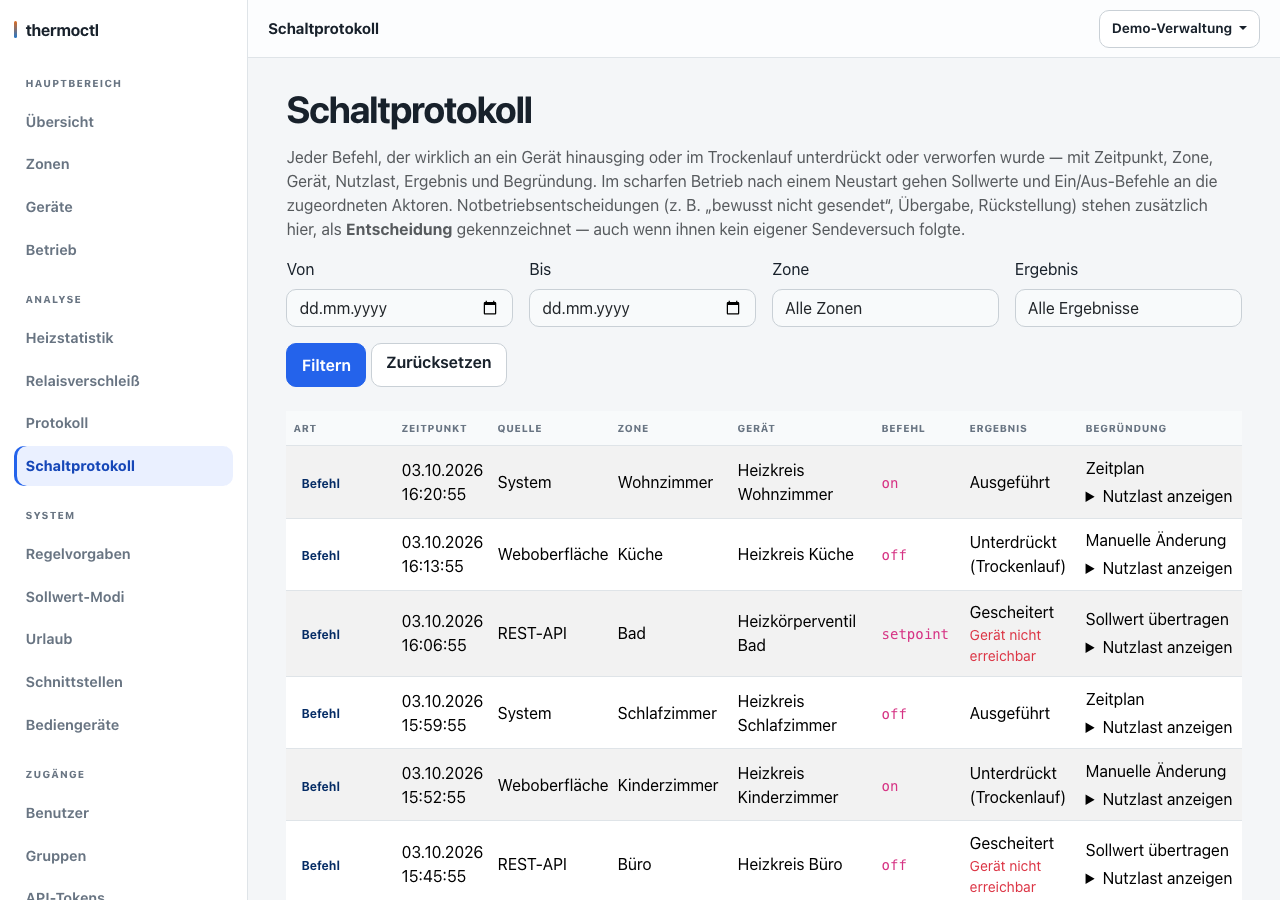
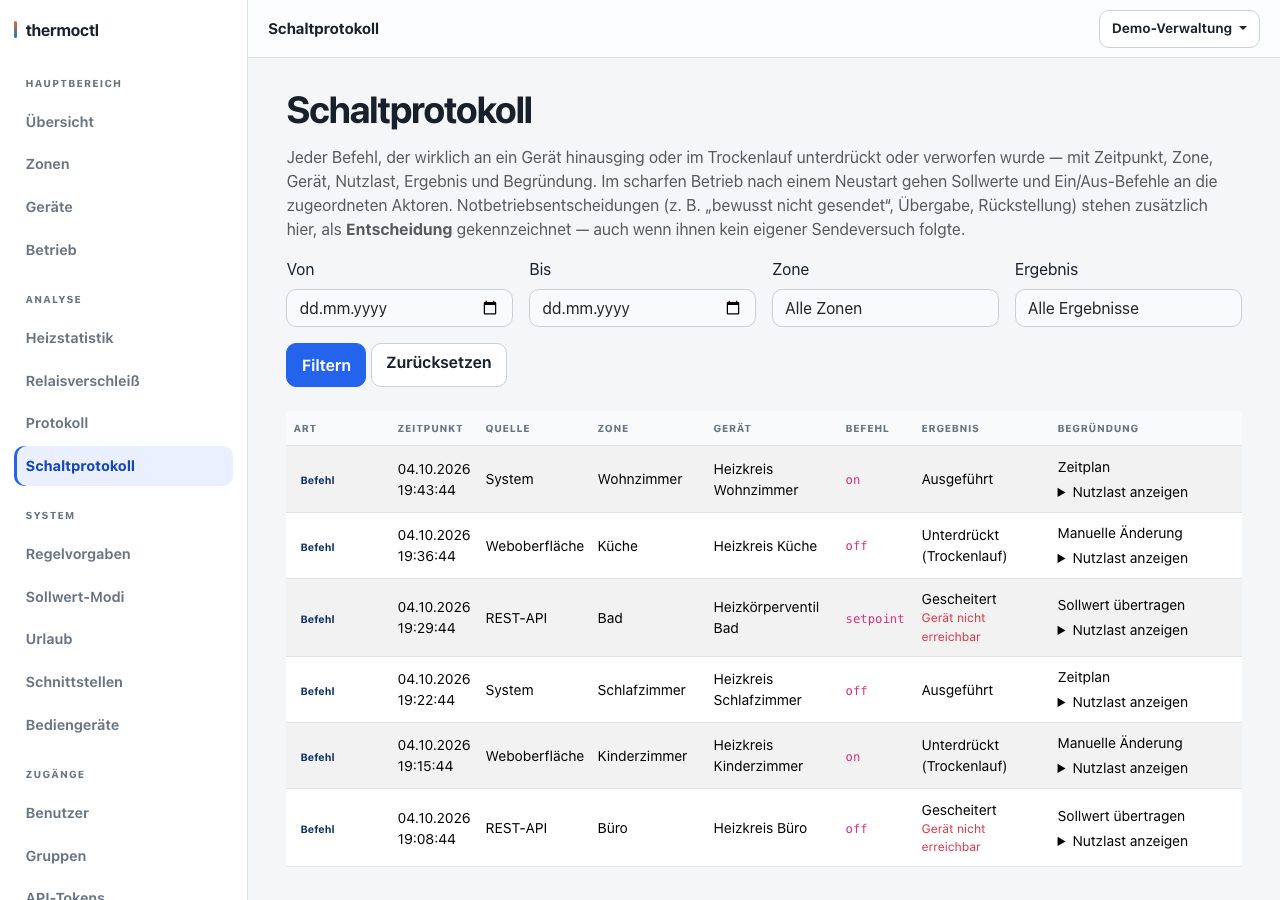
fix: Schaltprotokoll bricht lange Ergebnis- und Begruendungstexte bei 1280 px sauber um

diff --git a/thermoctl/web/static/thermoctl.css b/thermoctl/web/static/thermoctl.css
@@ -938,24 +938,41 @@ body {
  * 7 Ergebnis, 8 Begründung. Bei 1280px bleiben neben Navigation und
  * Seitenpolster nur 955px. Jede feste Breite enthält ihr Zellpolster (2 x
  * 0.45rem); Zeitpunkt, Ergebnis und Begründung dürfen nur an Leerzeichen
- * umbrechen, nie mitten im Wort. Der Rest gehört der Begründung. Unterhalb
+ * umbrechen, nie mitten im Wort. Der Rest (rund 190px) gehört der Begründung. Unterhalb
  * dieses Budgets scrollt nur die Tabelle; mobil gilt die Kartenform. */
 .tc-command-table { table-layout: fixed; }
 .tc-command-table > :not(caption) > * > * { padding: 0.6rem 0.45rem; }
-.tc-command-table th:nth-child(1) { width: 6.75rem; }
-.tc-command-table th:nth-child(2) { width: 6rem; }
-.tc-command-table th:nth-child(3) { width: 7.5rem; }
-.tc-command-table th:nth-child(4) { width: 7.5rem; }
-.tc-command-table th:nth-child(5) { width: 9rem; }
-.tc-command-table th:nth-child(6) { width: 5.5rem; }
-.tc-command-table th:nth-child(7) { width: 7.25rem; }
+.tc-command-table th:nth-child(1) { width: 6.5rem; }
+.tc-command-table th:nth-child(2) { width: 5.5rem; }
+.tc-command-table th:nth-child(3) { width: 7rem; }
+.tc-command-table th:nth-child(4) { width: 7.25rem; }
+.tc-command-table th:nth-child(5) { width: 8.25rem; }
+.tc-command-table th:nth-child(6) { width: 4.75rem; }
+.tc-command-table th:nth-child(7) { width: 8.5rem; }
+
+/* Am Schreibtisch ist die Tabelle dicht: Die Zeilen tragen Notbetriebstexte mit
+ * langen deutschen Zusammensetzungen ("Außentemperaturmessung"), die in
+ * 1rem-Schrift nicht in die Begründungsspalte passen. Mobil bleibt die
+ * Kartenform in Normalgröße. */
+@media (min-width: 768px) {
+    .tc-command-table { font-size: 0.875rem; }
+}
 
 .tc-command-table td:nth-child(1),
 .tc-command-table td:nth-child(2),
-.tc-command-table td:nth-child(3),
+.tc-command-table td:nth-child(3) {
+    overflow-wrap: normal;
+}
+
+/* Ergebnis und Begründung tragen freien Text: Fehlermeldungen, Pfade, lange
+ * deutsche Zusammensetzungen. Umbrochen wird zuerst an Leerzeichen und an den
+ * Trennmarken der Vorlage (<wbr> nach _ / ? & =); erst wenn ein einzelnes Wort
+ * allein nicht in die Spalte passt, darf `break-word` es zerteilen -- statt
+ * dass es in die Nachbarspalte läuft. Anders als `anywhere` ändert es die
+ * Mindestbreite nicht und greift nur in diesem Notfall. */
 .tc-command-table td:nth-child(7),
 .tc-command-table td:nth-child(8) {
-    overflow-wrap: normal;
+    overflow-wrap: break-word;
 }
 
 .tc-command-table td:nth-child(1) .badge {

diff --git a/thermoctl/web/templates/device_commands.html b/thermoctl/web/templates/device_commands.html
@@ -1,6 +1,13 @@
 {% extends "base_admin.html" if not is_htmx else "empty.html" %}
 {% block title %}Schaltprotokoll – thermoctl{% endblock %}
 {% block page_title %}Schaltprotokoll{% endblock %}
+{# Trennstellen für Rohcodes, Pfade und Adressen: <wbr> nach _ / ? & = . erlaubt dem
+   Browser einen Umbruch an diesen Stellen, bevor er überhaupt ein Wort zerreißen
+   müsste. Der Text wird zuerst maskiert; nur die Trennmarke ist Markup. #}
+{% macro breakable(text) -%}
+{%- set wbr = "<wbr>"|safe -%}
+{{- text|e|replace("_", "_"|safe ~ wbr)|replace("/", "/"|safe ~ wbr)|replace("?", "?"|safe ~ wbr)|replace("&amp;"|safe, "&amp;"|safe ~ wbr)|replace("=", "="|safe ~ wbr)|replace(".", "."|safe ~ wbr) -}}
+{%- endmacro %}
 {% block content %}
 <section id="device-command-list">
   <h1 class="mb-3">Schaltprotokoll</h1>
@@ -71,11 +78,11 @@
         <td data-label="Gerät">{{ entry.device_name }}</td>
         <td data-label="Befehl"><code>{{ entry.command }}</code></td>
         <td data-label="Ergebnis">
-          {{ outcome_labels.get(entry.outcome, entry.outcome) }}
-          {% if entry.error %}<div class="text-danger small">{{ entry.error }}</div>{% endif %}
+          {{ breakable(outcome_labels.get(entry.outcome, entry.outcome)) }}
+          {% if entry.error %}<div class="text-danger small">{{ breakable(entry.error) }}</div>{% endif %}
         </td>
         <td data-label="Begründung">
-          {{ entry.reason or "–" }}
+          {{ breakable(entry.reason or "–") }}
           {% if entry.payload %}
           <details class="mt-1"><summary>Nutzlast anzeigen</summary><pre class="mt-2 text-wrap">{{ entry.payload }}</pre></details>
           {% endif %}

diff --git a/browser_tests/test_mobile_word_wrap.py b/browser_tests/test_mobile_word_wrap.py
@@ -135,6 +135,65 @@ def test_no_word_splits_or_horizontal_overflow_at_phone_width(
 
 _DESKTOP_VIEWPORT = {"width": 1280, "height": 900}
 
+# Bewusst lange Protokollinhalte: ein Rohcode als Ergebnis einer Notbetriebs-
+# entscheidung (ohne Anzeigebezeichnung, nur mit Unterstrichen), ein langer
+# Satz als Begründung, ein langer Fehlertext mit Pfad und ein Fehlercode ohne
+# jede Trennstelle als letzte Rückfalloption.
+_LONG_CODE = "sensorausfall_rueckkehr_quellenwechsel"
+_LONG_REASON = (
+    "Notbetriebstakt läuft weiter, aktuelle Ein-Phase für 600 s, Taktquelle "
+    "Festtakt, keine Außentemperaturmessung, Übergabe an den Thermostat "
+    "wurde bewusst nicht gesendet, weil der Sollwert bereits erreicht ist."
+)
+_LONG_ERROR = (
+    "Zeitüberschreitung beim Zugriff auf "
+    "http://geraet.example.invalid/api/v1/geraete/wohnzimmer/heizkoerper/sollwert"
+    "?versuch=3&modus=komfort nach 30 Sekunden"
+)
+_UNBROKEN_ERROR = "ERR_" + "X" * 60
+
+
+def _seed_long_log_rows(server: LiveServer) -> None:
+    """Fügt Protokollzeilen mit überlangem Ergebnis, Fehlertext und Begründung ein.
+
+    Eigene Zeilen statt Demo-Daten: Die Doku-Bilder bleiben inhaltlich unberührt.
+    """
+    from datetime import datetime, timedelta
+
+    from sqlalchemy import select
+
+    from tests.helpers import create_device_command
+    from thermoctl.db.base import utcnow
+    from thermoctl.db.models.device import Device
+    from thermoctl.db.models.sensor_failure import ActuatorDecision
+    from thermoctl.db.models.zone import Zone
+
+    with server.session() as session:
+        existing = select(ActuatorDecision).where(ActuatorDecision.reason_code == _LONG_CODE)
+        if session.scalar(existing):
+            return
+        zone = session.scalars(select(Zone).order_by(Zone.id)).first()
+        device = session.scalars(select(Device).order_by(Device.id)).first()
+        assert zone is not None and device is not None
+        now: datetime = utcnow()
+        for index, error in enumerate((_LONG_ERROR, _UNBROKEN_ERROR)):
+            entry = create_device_command(
+                session, zone, device, at=now - timedelta(minutes=index),
+                outcome_code="failed",
+            )
+            entry.reason = _LONG_REASON
+            entry.error = error
+        session.add(
+            ActuatorDecision(
+                episode_id=None, zone_device_id=None, zone_name=zone.display_name,
+                device_name=device.display_name, decided_at=now - timedelta(minutes=2),
+                action="no_write", reason_code=_LONG_CODE, reason=_LONG_REASON,
+                phase=None, phase_deadline_at=None, simulated=False, cycle_source=None,
+                on_seconds=None, off_seconds=None, outdoor_c=None, profile_version=1,
+            )
+        )
+        session.commit()
+
 
 def test_command_log_has_no_word_splits_or_overlapping_cells_at_desktop_width(
     browser: Browser, demo_server: tuple[LiveServer, dict[str, str | int]]
@@ -142,6 +201,7 @@ def test_command_log_has_no_word_splits_or_overlapping_cells_at_desktop_width(
     """Schaltprotokoll bei 1280px: die Spalte "Art" darf Zeitpunkt, Quelle, Ergebnis
     und Begründung weder überlagern noch zu Umbrüchen mitten im Wort zwingen."""
     server, _ = demo_server
+    _seed_long_log_rows(server)
     with browser.new_context(
         base_url=server.base_url,
         viewport=_DESKTOP_VIEWPORT,
@@ -154,6 +214,10 @@ def test_command_log_has_no_word_splits_or_overlapping_cells_at_desktop_width(
         page.evaluate("document.fonts.ready")
 
         failures = page.evaluate(_GEOMETRY, _WORD_WRAP_EXEMPT_SELECTOR)
+        # Der trennstellenlose Fehlercode ist der dokumentierte Notfall: kein
+        # Leerzeichen, keine Trennmarke -- dort darf `break-word` mitten im
+        # "Wort" umbrechen, solange nichts überläuft (unten geprüft).
+        failures = [line for line in failures if "XXXX" not in line]
         assert not failures, "\n".join(failures)
 
         cut_off = page.evaluate(
